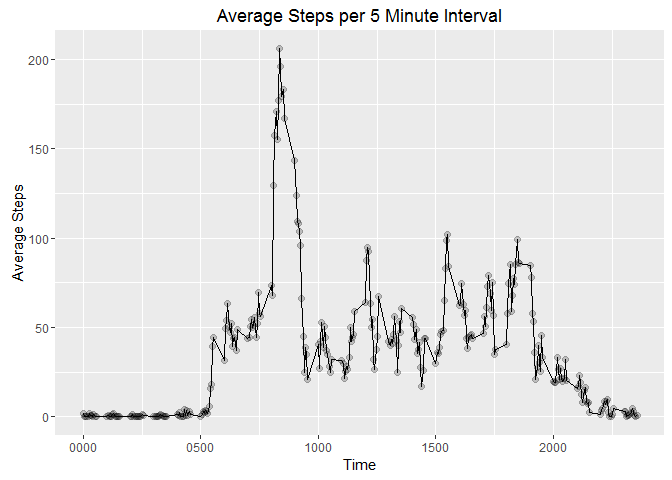
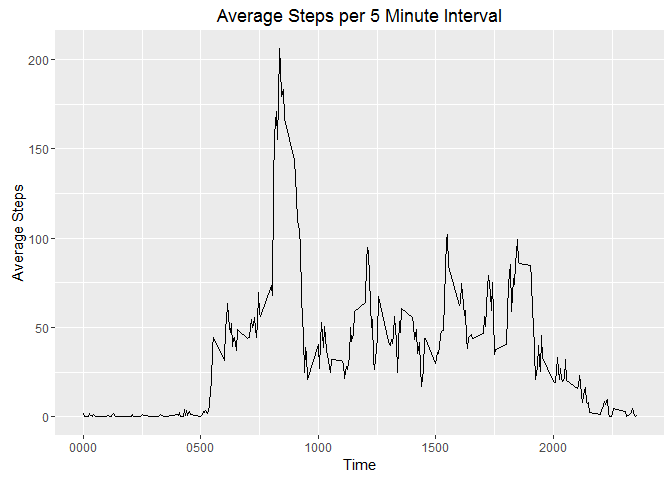
PA1 - small changes

diff --git a/PA1_template.html b/PA1_template.html
@@ -145,10 +145,10 @@ medianSteps &lt;- median(dailySteps$total, na.rm = TRUE)</code></pre>
   group_by(interval) %&gt;%
   summarise(average = mean(steps, na.rm = TRUE))
 
-ggplot(intervalSteps, aes(x=interval, y=average)) + geom_point(alpha=.2, size=2) + geom_line() +
+ggplot(intervalSteps, aes(x=interval, y=average)) + geom_line() +
   labs(title=&quot;Average Steps per 5 Minute Interval&quot;, x=&quot;Time&quot;, y=&quot;Average Steps&quot;) +
   scale_x_continuous(labels=function(x) sprintf(&quot;%04d&quot;,x))</code></pre>
[2 lines of base64/hex data omitted]
 <pre class="r"><code>maxSteps &lt;- intervalSteps$interval[intervalSteps$average == max(intervalSteps$average)]
 maxSteps &lt;- format(strptime(sprintf(&quot;%04d&quot;,maxSteps),&quot;%H%M&quot;), &quot;%H:%M&quot;)</code></pre>
 <p>The interval with the most steps starts at: 08:35</p>
@@ -203,11 +203,10 @@ intervalSteps_bydayType &lt;- activity_imputed %&gt;%
   summarise(average = mean(steps))
 
 ggplot(intervalSteps_bydayType, aes(x=interval, y=average, facet=dayType)) + 
-  geom_point(alpha=.2, size=2) +
   geom_line() + facet_grid(dayType~.) +
   labs(title=&quot;Average Steps on Weekdays vs Weekends&quot;, x=&quot;Time&quot;, y=&quot;Average Steps&quot;) +
   scale_x_continuous(labels=function(x) sprintf(&quot;%04d&quot;,x))</code></pre>
[2 lines of base64/hex data omitted]
 </div>
 
 

diff --git a/PA1_template.md b/PA1_template.md
@@ -44,7 +44,7 @@ intervalSteps <- activity %>%
   group_by(interval) %>%
   summarise(average = mean(steps, na.rm = TRUE))
 
-ggplot(intervalSteps, aes(x=interval, y=average)) + geom_point(alpha=.2, size=2) + geom_line() +
+ggplot(intervalSteps, aes(x=interval, y=average)) + geom_line() +
   labs(title="Average Steps per 5 Minute Interval", x="Time", y="Average Steps") +
   scale_x_continuous(labels=function(x) sprintf("%04d",x))
 ```
@@ -128,7 +128,6 @@ intervalSteps_bydayType <- activity_imputed %>%
   summarise(average = mean(steps))
 
 ggplot(intervalSteps_bydayType, aes(x=interval, y=average, facet=dayType)) + 
-  geom_point(alpha=.2, size=2) +
   geom_line() + facet_grid(dayType~.) +
   labs(title="Average Steps on Weekdays vs Weekends", x="Time", y="Average Steps") +
   scale_x_continuous(labels=function(x) sprintf("%04d",x))
